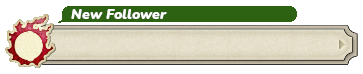
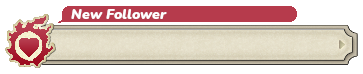
Fixed text position, updated image

Changed region(s): [[0.1212, 0.0811, 0.8182, 0.3243], [0.0, 0.2432, 0.1515, 0.8919]]

diff --git a/ffxiv-follow-alert/html.html b/ffxiv-follow-alert/html.html
@@ -1,4 +1,4 @@
 <div id="container">
-    <img class="background-img" src="https://raw.githubusercontent.com/KanaeSumida/streamlabs-chatbox-themes/main/ffxiv-follower-alert/ffxiv-follower-alert.png"/>
+    <img class="background-img" src="https://raw.githubusercontent.com/KanaeSumida/streamlabs-chatbox-themes/main/ffxiv-follow-alert/ffxiv-follower-alert.png"/>
     <div id="name">{nane}</div>
 </div>

diff --git a/ffxiv-follow-alert/css.css b/ffxiv-follow-alert/css.css
@@ -9,8 +9,8 @@ html {
 
 #name {
     position: absolute;
-    top: 59px;
-    left: 39px;
+    top: 35px;
+    left: 65px;
     font-family: 'Roboto', sans-serif;
     font-size: 1rem;
     color: #501a0b;
